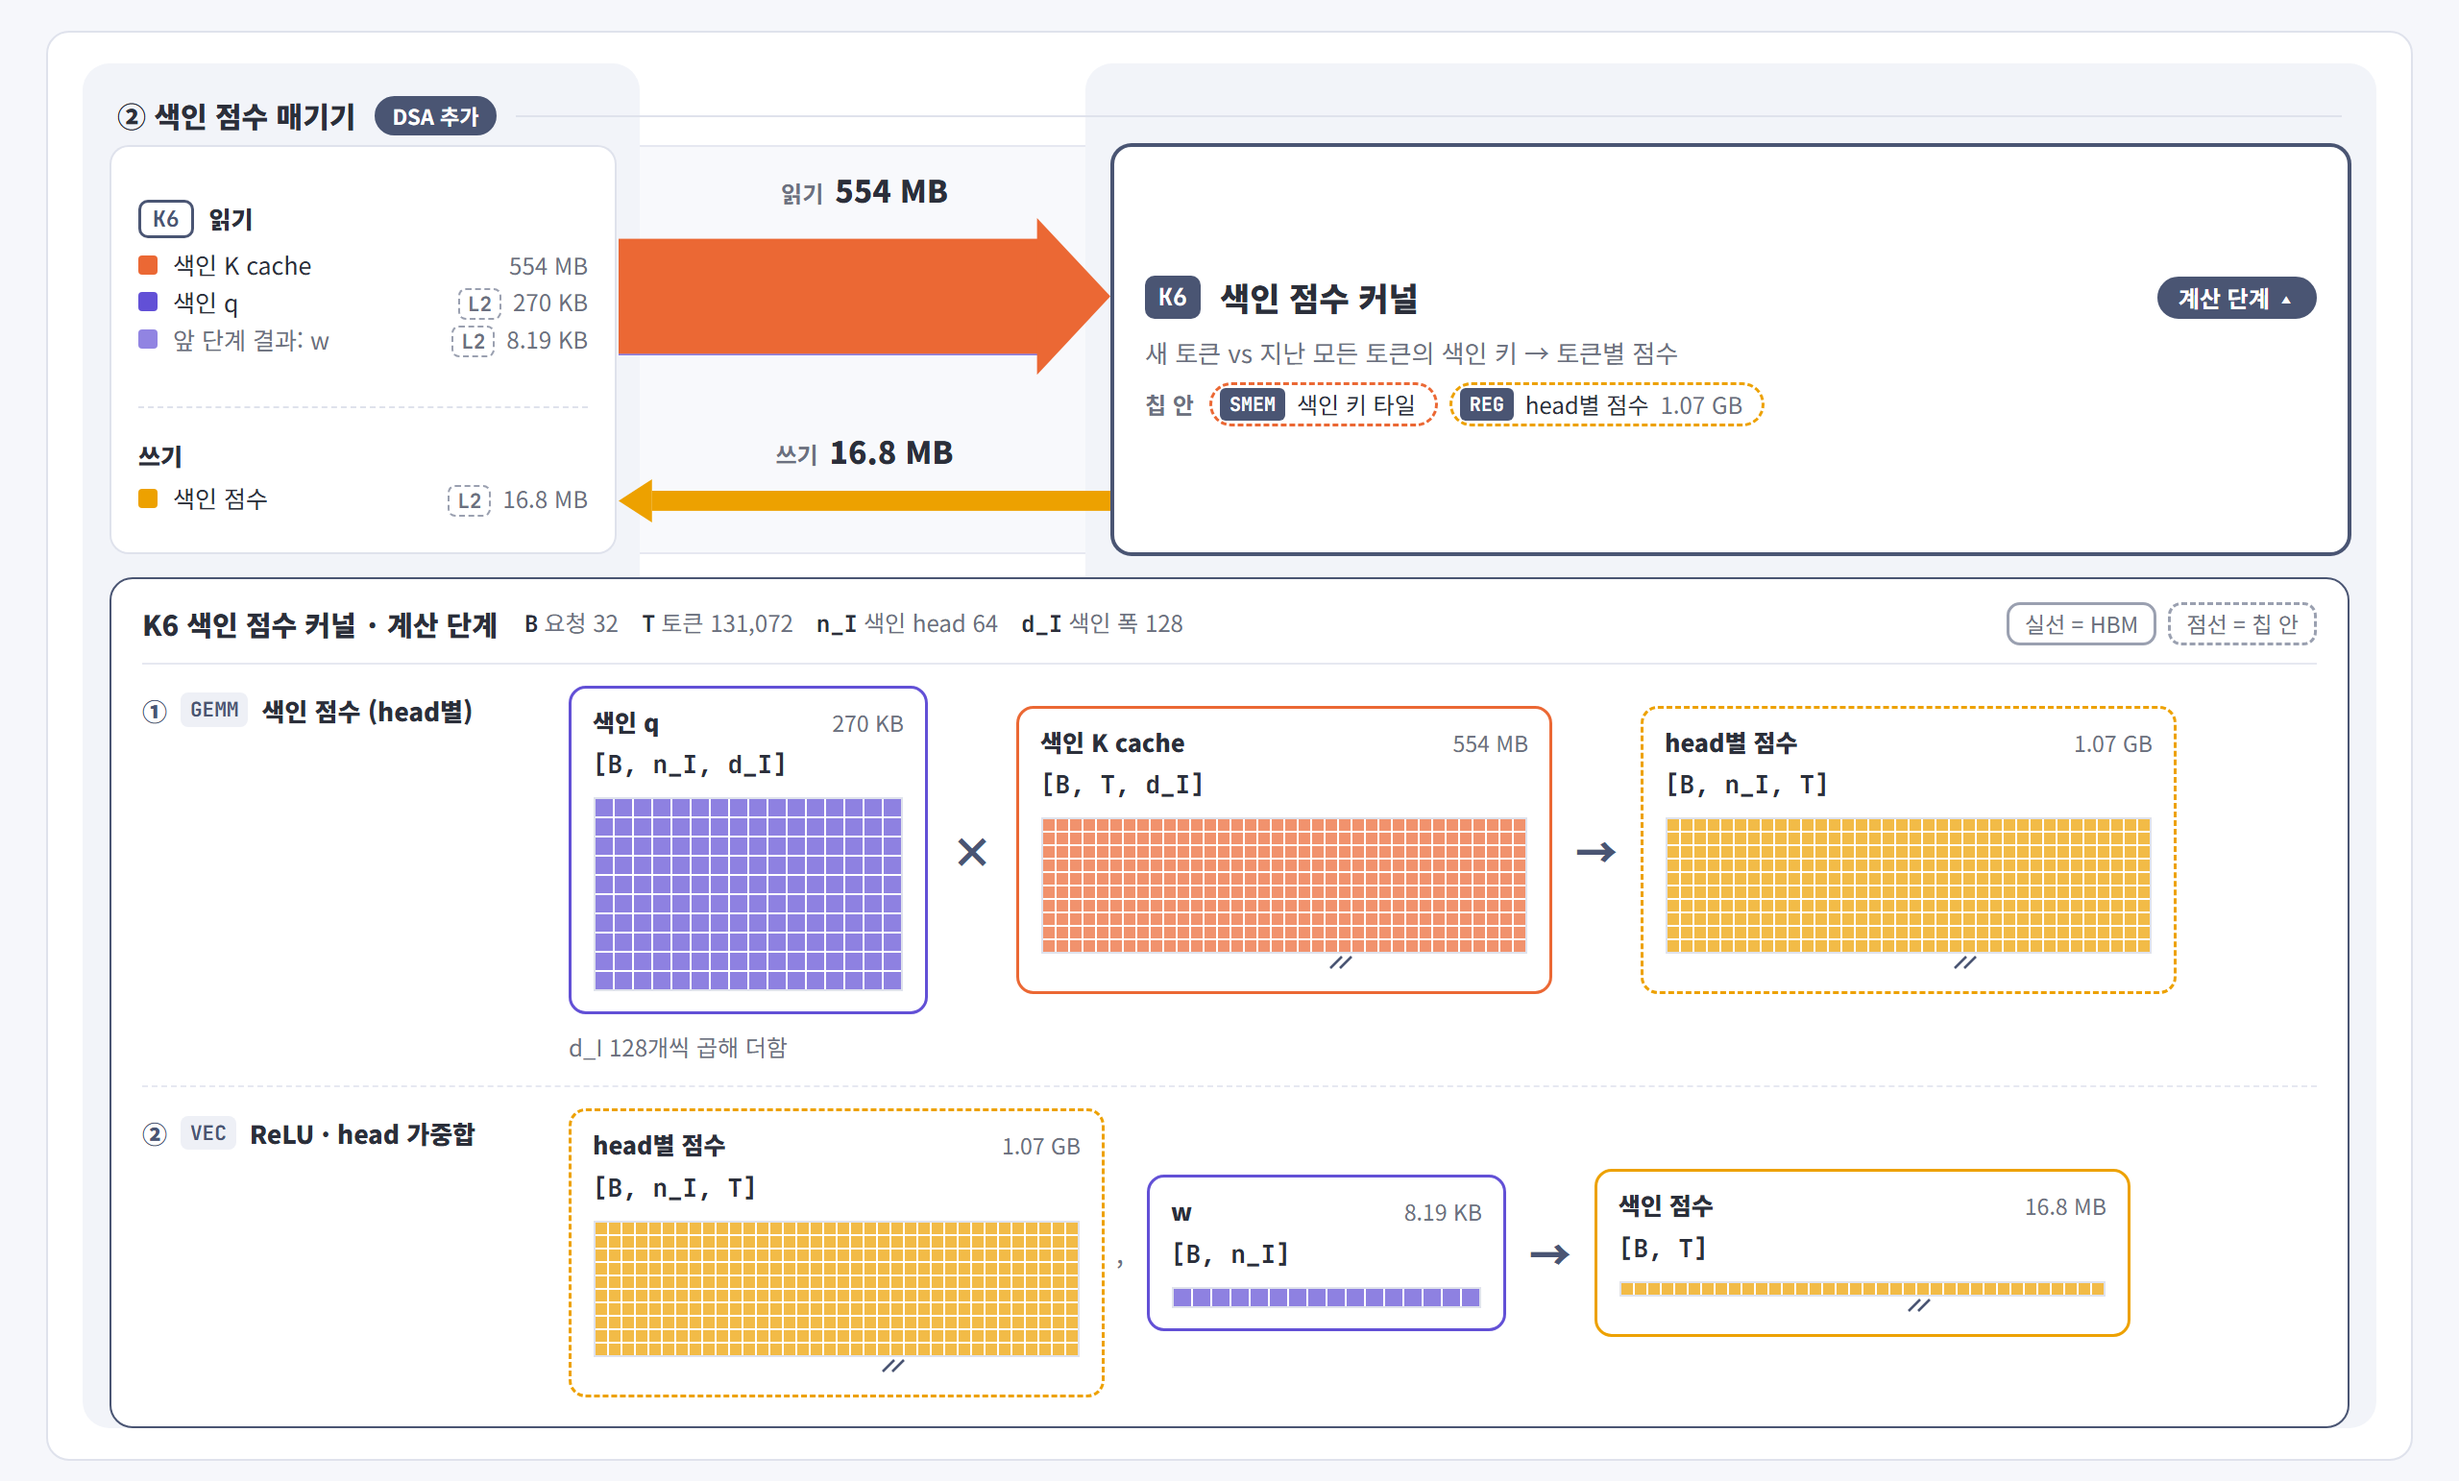
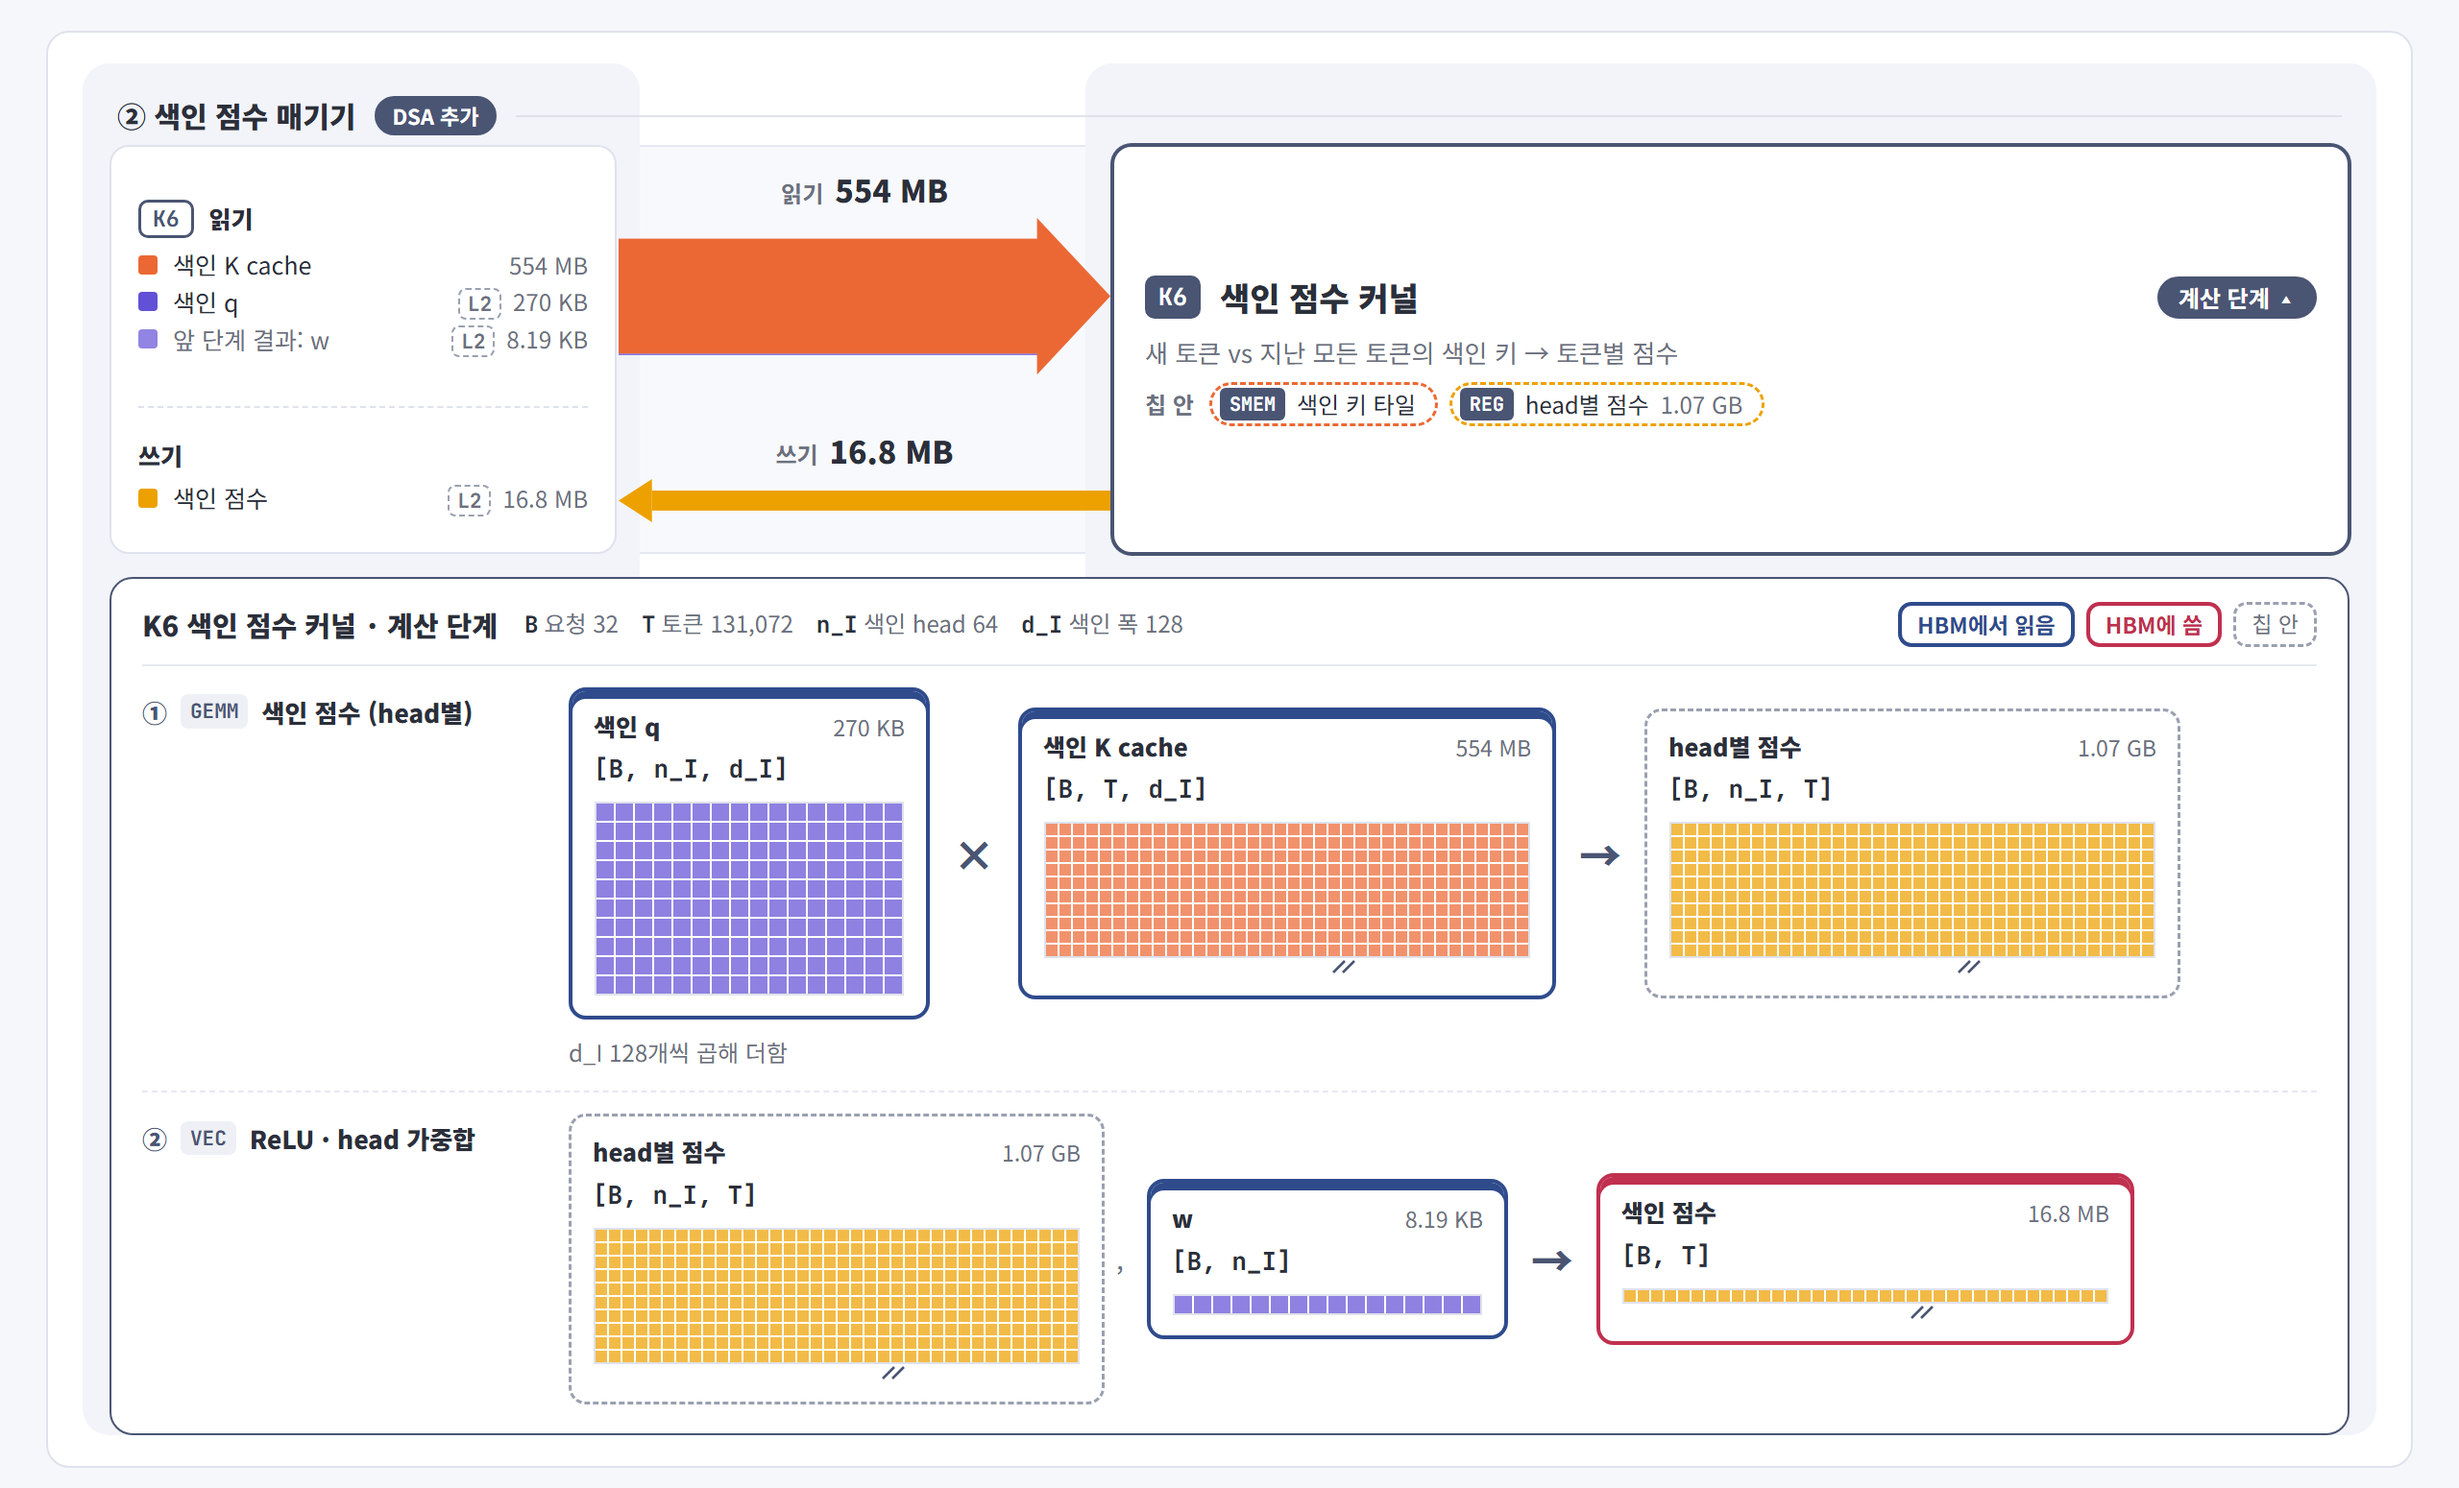
docs: color tensor borders by HBM read, HBM write, or on chip in lite viewers
Navy = read from HBM, crimson = written to HBM, gray dashed = on chip only.
Grid color still shows the data kind.

diff --git a/arch_insight/dataflow-claude/README.md b/arch_insight/dataflow-claude/README.md
@@ -39,7 +39,7 @@
 | View A | 커널을 위→아래(시간 순)로 나열. 왼쪽 HBM 수명선(● 읽기 ○ 쓰기), 띠 굵기 ∝ √바이트, 오른쪽 이론 하한 |
 | View B | 선택 단계의 입력 → 연산 → 출력 텐서 격자. 토큰 축(T · k)은 항상 가로, 긴 축은 40칸으로 줄임. B 축 생략 |
 | L2 표시 | 약식 화면에서 상주 데이터(가중치 · cache · state)가 아니고 L2 절반(25 MB) 이하인 값에 `L2` — 앞뒤 커널이 주고받는 작은 값이라 실제로는 L2에서 끝날 수 있음. 화살표 굵기는 그대로 |
-| 약식 | 결론 · 설명 없이 흐름만. 위 "흐름 한눈에" = 단계별 HBM 읽기(진한 막대) · 쓰기(옅은 막대), 높이 ∝ 바이트. 아래 "커널별 이동" = HBM 레인 · 화살표(→ 읽기 · ← 쓰기, 굵기 ∝ √바이트) · 칩 레인. 커널 칸을 누르면 계산 단계가 펼쳐짐 — 단계마다 텐서 그림 × 텐서 그림 → 텐서 그림(이름 · `[B, T, d_I]` · 크기 · 격자), 실선 = HBM · 점선 = 칩 안 |
+| 약식 | 결론 · 설명 없이 흐름만. 위 "흐름 한눈에" = 단계별 HBM 읽기(진한 막대) · 쓰기(옅은 막대), 높이 ∝ 바이트. 아래 "커널별 이동" = HBM 레인 · 화살표(→ 읽기 · ← 쓰기, 굵기 ∝ √바이트) · 칩 레인. 커널 칸을 누르면 계산 단계가 펼쳐짐 — 단계마다 텐서 그림 × 텐서 그림 → 텐서 그림(이름 · `[B, T, d_I]` · 크기 · 격자), 테두리 남색 = HBM에서 읽음 · 진홍 = HBM에 씀 · 회색 점선 = 칩 안 |
 | 이론 하한 | max(바이트 ÷ HBM 대역폭, FLOP ÷ 피크). 실행 지연 · 동기화 · gather 비효율 미포함 |
 
 ## 구조
